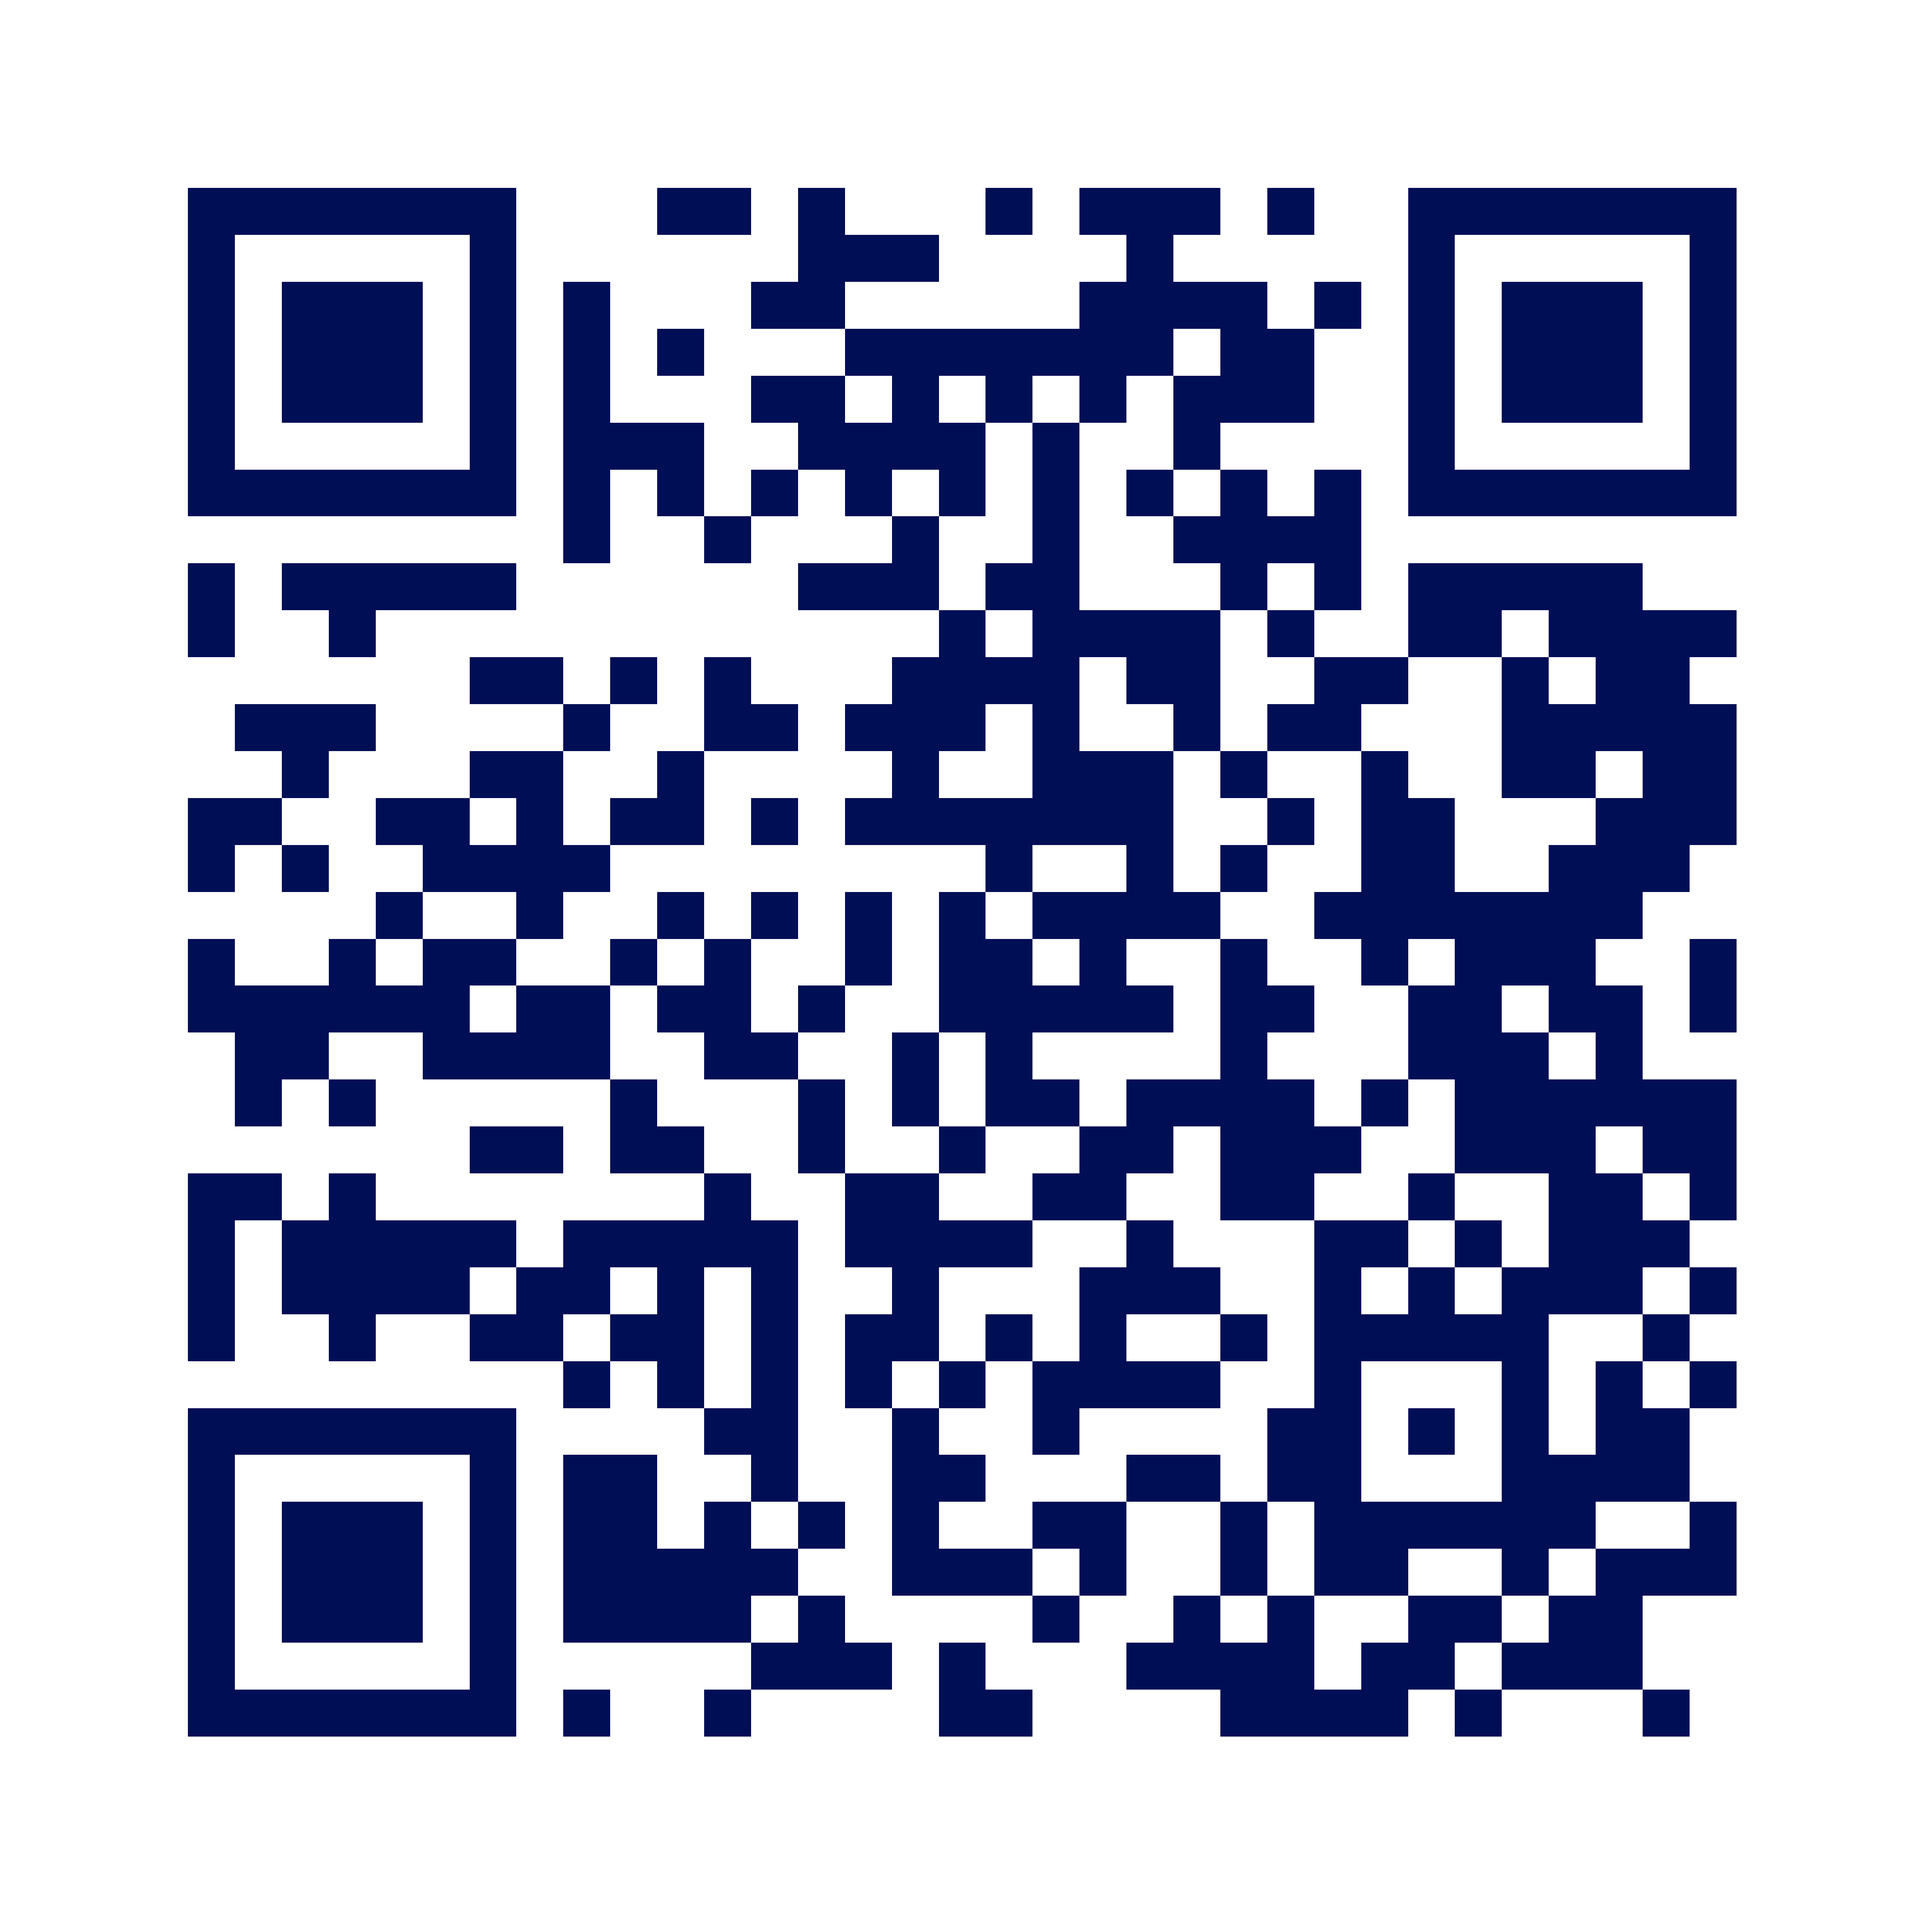
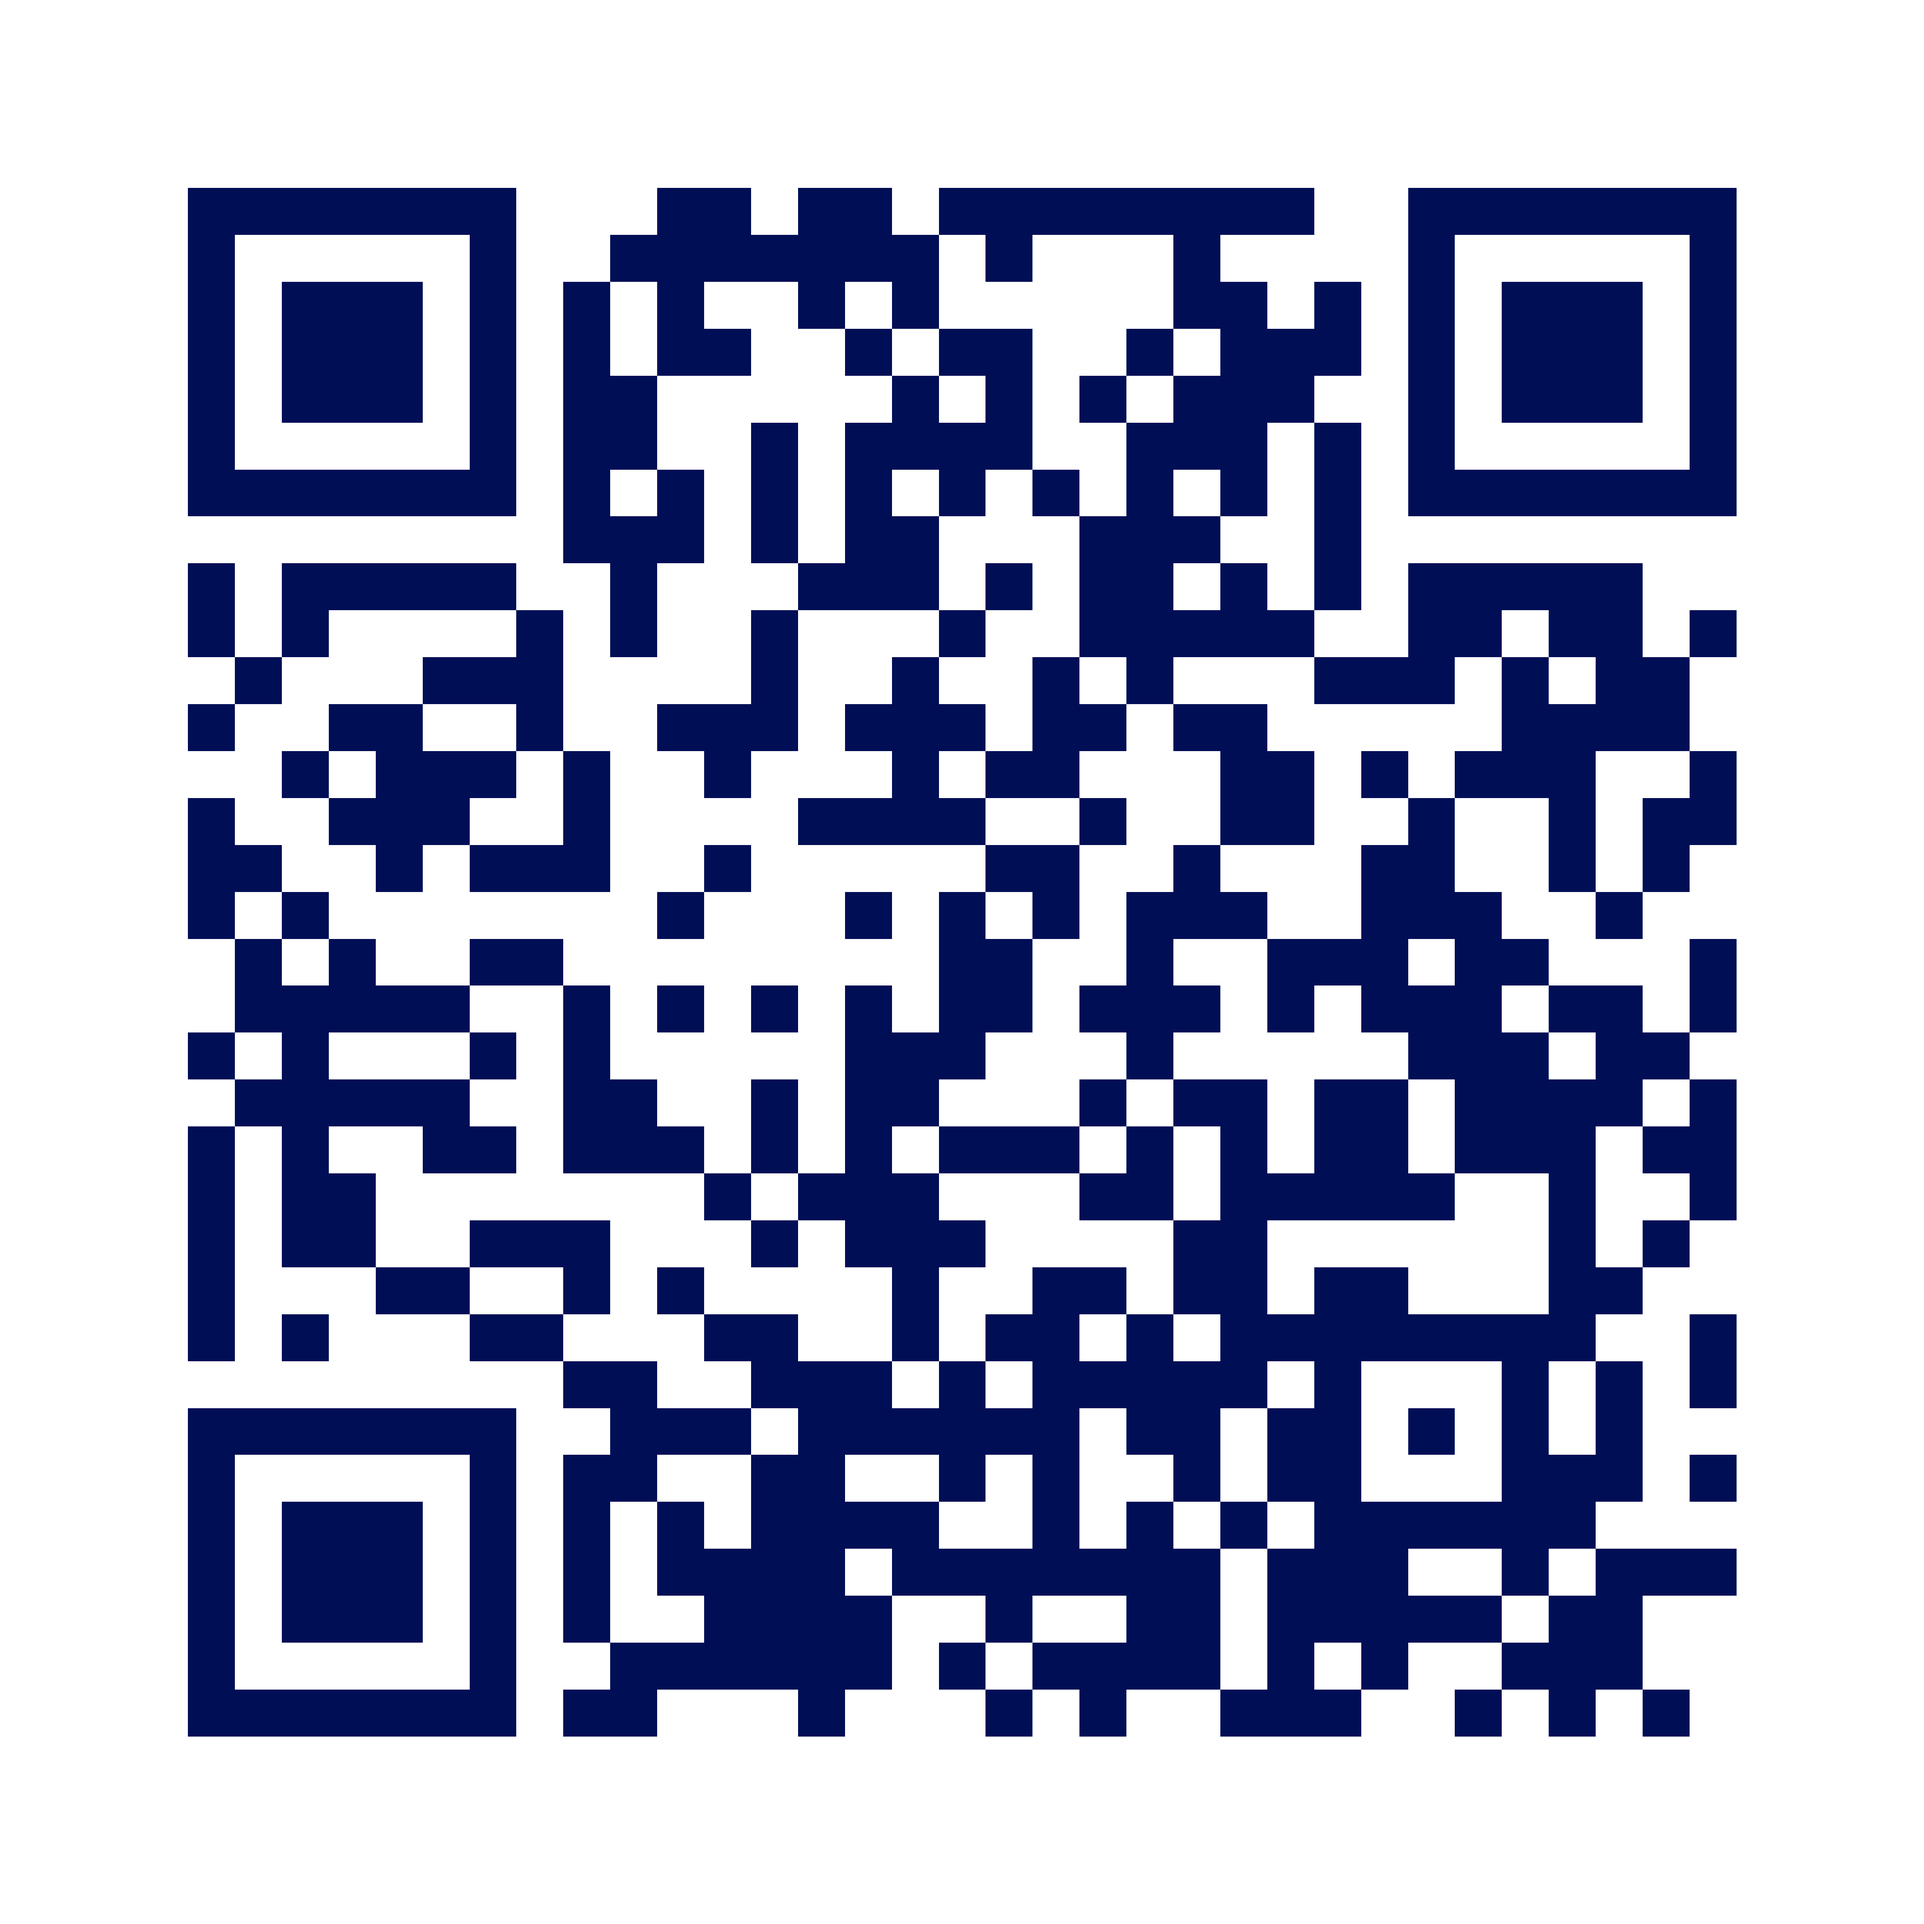
Move to the Quality-passport account: new Pages address and QR codes

diff --git a/README.md b/README.md
@@ -2,7 +2,7 @@
 
 Web app statique qui remplace le passeport papier : un QR code par pilier, une question ouverte, une étoile par réponse, et un Quality Passport en PDF après les 4 étoiles. Programme : **Quality Powering Performance**.
 
-- App en ligne : https://florianzilliox.github.io/quality-passport/
+- App en ligne : https://quality-passport.github.io/quality-passport/
 - Réponses : Google Sheet « Quality Report » (onglets `Responses` et `Stars`)
 
 ## Ce qu'il te reste à faire, dans l'ordre
@@ -84,7 +84,7 @@ npm install
 npx playwright install webkit chromium
 npm run serve          # http://localhost:4173  (mode simulé tant que SCRIPT_URL est vide)
 npm test               # tests du script Google + 8 scénarios Playwright (iPhone 13, Pixel 7)
-npm run qr -- https://florianzilliox.github.io/quality-passport/
+npm run qr -- https://quality-passport.github.io/quality-passport/
 ```
 
 Mode simulé : quand `SCRIPT_URL` est vide, les réponses sont stockées dans le navigateur (clé `wqw_mock_sheet`). `?mockfail=1` fait échouer chaque envoi pour tester la file d'attente. L'app doit être servie en http (pas ouverte en double-cliquant `index.html`), car elle utilise des modules JavaScript.
